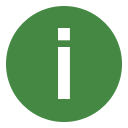
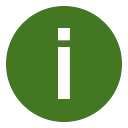
Requested new enum members for #1 . Hide not relevant fields in place editor and some fine color styling.

diff --git a/trips-client/src/app/components/places/place-details/place-details.component.ts b/trips-client/src/app/components/places/place-details/place-details.component.ts
@@ -26,7 +26,10 @@ export class PlaceDetailsComponent implements OnInit {
   mapRef: string;
 
   isEditButtonVisible: boolean;
+  isAccessibilityVisible: boolean;
   isNearestAccessibilityVisible: boolean;
+  isPopularityVisible: boolean;
+  isCapacityVisible: boolean;
   isGalleryVisible: boolean;
   isSelectTitlePicButtonVisible: boolean;
   isSelectTitlePicLabelVisible: boolean;
@@ -51,6 +54,7 @@ export class PlaceDetailsComponent implements OnInit {
   }
   set placeKind(value: PlaceKind) {
     this.place.kind = value;
+    this.refreshSelectorsVisible();
     this.initiatePartialSilentUpdate();
   }
 
@@ -62,7 +66,7 @@ export class PlaceDetailsComponent implements OnInit {
     if (this.place.nearestAccessibility > this.place.accessibility) {
       this.place.nearestAccessibility = this.place.accessibility;
     }
-    this.refreshNearestAccessibilityVisible();
+    this.refreshSelectorsVisible();
     this.initiatePartialSilentUpdate();
   }
 
@@ -159,7 +163,7 @@ export class PlaceDetailsComponent implements OnInit {
         this.isNotFound = true;
       }
       this.refreshTitlePicSrc();
-      this.refreshNearestAccessibilityVisible();
+      this.refreshSelectorsVisible();
       this.refreshGalleryVisible();
       this.updateMapRef();
       this.isOverallLoaderVisible = false;
@@ -366,8 +370,11 @@ export class PlaceDetailsComponent implements OnInit {
     }
   }
 
-  private refreshNearestAccessibilityVisible() {
-    this.isNearestAccessibilityVisible = (this.place) && (this.place.accessibility) && (this.place.accessibility >= PlaceAccessibility.TRACTORONLY);
+  private refreshSelectorsVisible() {
+    this.isAccessibilityVisible = this.place && this.placesService.isAccessibilityApplicable(this.place.kind);
+    this.isNearestAccessibilityVisible = this.isAccessibilityVisible && (this.place.accessibility) && (this.place.accessibility >= PlaceAccessibility.TRACTORONLY);
+    this.isPopularityVisible = this.place && this.placesService.isPopularityApplicable(this.place.kind);
+    this.isCapacityVisible = this.place && this.placesService.isCapacityApplicable(this.place.kind);
   }
 
   private refreshGalleryVisible() {

diff --git a/trips-client/src/app/components/common/selectors/place-kind-selector/place-kind-selector.component.ts b/trips-client/src/app/components/common/selectors/place-kind-selector/place-kind-selector.component.ts
@@ -1,6 +1,6 @@
 import { Component, OnInit, Input, Output, EventEmitter, ViewChild, OnChanges, SimpleChanges } from '@angular/core';
 import { PlaceKind } from 'src/app/models/place';
-import { ChoiceViewModel, SEL_GRAY, SEL_NOT_SELECTED, SEL_WHITE, SEL_BLUE, SEL_BLACK, SEL_ORANGE } from '../selector-engine/selector-engine.component';
+import { ChoiceViewModel, SEL_GRAY, SEL_NOT_SELECTED, SEL_WHITE, SEL_BLUE, SEL_BLACK, SEL_ORANGE, SEL_YELLOW, SEL_DARKGREEN } from '../selector-engine/selector-engine.component';
 
 let placeSelectorViewModels: ChoiceViewModel[] = [
   {
@@ -73,6 +73,30 @@ let placeSelectorViewModels: ChoiceViewModel[] = [
     colorWhenSelected: SEL_WHITE,
     colorWhenNotSelected: SEL_WHITE,
     backgroundColorWhenSelected: SEL_ORANGE,
+    backgroundColorWhenNotSelected: SEL_NOT_SELECTED
+  },
+  {
+    associatedValue: PlaceKind.TOURISTATTRACTION,
+    bigText: "Д",
+    smallText: "Достопримечательность",
+    showBigText: true,
+    showSmallText: true,
+    description: "",
+    colorWhenSelected: SEL_WHITE,
+    colorWhenNotSelected: SEL_WHITE,
+    backgroundColorWhenSelected: SEL_YELLOW,
+    backgroundColorWhenNotSelected: SEL_NOT_SELECTED
+  },
+  {
+    associatedValue: PlaceKind.ABANDONED,
+    bigText: "З",
+    smallText: "Заброшенное",
+    showBigText: true,
+    showSmallText: true,
+    description: "",
+    colorWhenSelected: SEL_WHITE,
+    colorWhenNotSelected: SEL_WHITE,
+    backgroundColorWhenSelected: SEL_DARKGREEN,
     backgroundColorWhenNotSelected: SEL_NOT_SELECTED
   }
 ];

diff --git a/trips-client/src/app/components/common/selectors/place-kind-multi-selector/place-kind-multi-selector.component.ts b/trips-client/src/app/components/common/selectors/place-kind-multi-selector/place-kind-multi-selector.component.ts
@@ -1,6 +1,6 @@
 import { Component, OnInit, Input, OnChanges, SimpleChanges, Output, EventEmitter } from '@angular/core';
 import { ChoiceViewModel } from '../multi-selector-engine/multi-selector-engine.component';
-import { SEL_WHITE, SEL_GRAY, SEL_NOT_SELECTED, SEL_BLUE, SEL_BLACK, SEL_ORANGE } from '../selector-engine/selector-engine.component';
+import { SEL_WHITE, SEL_GRAY, SEL_NOT_SELECTED, SEL_BLUE, SEL_BLACK, SEL_ORANGE, SEL_YELLOW, SEL_DARKGREEN } from '../selector-engine/selector-engine.component';
 import { PlaceKind } from 'src/app/models/place';
 
 let placeMultiSelectorViewModels: ChoiceViewModel[] = [
@@ -62,6 +62,26 @@ let placeMultiSelectorViewModels: ChoiceViewModel[] = [
     colorWhenSelected: SEL_WHITE,
     colorWhenNotSelected: SEL_WHITE,
     backgroundColorWhenSelected: SEL_ORANGE,
+    backgroundColorWhenNotSelected: SEL_NOT_SELECTED
+  },
+  {
+    associatedValue: PlaceKind.TOURISTATTRACTION,
+    bigText: "Д",
+    smallText: "Достопримечательность",
+    tooltip: "",
+    colorWhenSelected: SEL_WHITE,
+    colorWhenNotSelected: SEL_WHITE,
+    backgroundColorWhenSelected: SEL_YELLOW,
+    backgroundColorWhenNotSelected: SEL_NOT_SELECTED
+  },
+  {
+    associatedValue: PlaceKind.ABANDONED,
+    bigText: "З",
+    smallText: "Заброшенное",
+    tooltip: "",
+    colorWhenSelected: SEL_WHITE,
+    colorWhenNotSelected: SEL_WHITE,
+    backgroundColorWhenSelected: SEL_DARKGREEN,
     backgroundColorWhenNotSelected: SEL_NOT_SELECTED
   }
 ];

diff --git a/trips-client/src/app/components/places/place-details/place-details.component.html b/trips-client/src/app/components/places/place-details/place-details.component.html
@@ -79,7 +79,7 @@
                     <p *ngIf="!mapRef">{{place.location}}</p>
                 </div>
 
-                <div class="form-field">
+                <div *ngIf="isAccessibilityVisible" class="form-field">
                     <p>Доступность:</p>
                     <app-place-accessibility-selector [(value)]="placeAccessibility" [isEditable]="isEditMode"></app-place-accessibility-selector>
                 </div>
@@ -91,11 +91,11 @@
                         <span>"Ближайшая точка" по идее должна быть более доступна, чем само место</span>
                     </p>
                 </div>
-                <div class="form-field">
+                <div *ngIf="isPopularityVisible" class="form-field">
                     <p>Популярность:</p>
                     <app-place-popularity-selector [(value)]="placePopularity" [isEditable]="isEditMode"></app-place-popularity-selector>
                 </div>
-                <div class="form-field">
+                <div *ngIf="isCapacityVisible" class="form-field">
                     <p>Количество стоянок:</p>
                     <app-place-capacity-selector [(value)]="placeCapacity" [isEditable]="isEditMode"></app-place-capacity-selector>
                 </div>

diff --git a/trips-client/src/colors.less b/trips-client/src/colors.less
@@ -1,7 +1,7 @@
 /* 1. Colors that define current theme */
-@theme-color-dark: #484;
-@theme-color-light: #bc9;
-@theme-color-complementary:#848;
+@theme-color-dark: #472;
+@theme-color-light: #ab7;
+@theme-color-complementary:#816;
 
 /* 2. Colors that should not depend [much] on current theme */
 @color-danger:red;
@@ -11,12 +11,12 @@
 /* 3. Colors that depend on everything above */
 /* if something is theme-dark */
 @color-text-on-dark:white;
-@color-dark-hover:#cda;
+@color-dark-hover:#cd9;
 @color-text-on-dark-hover:black;
 @color-dark-pressed:white;
 @color-text-on-dark-pressed:black;
 
-@color-dark-text-hover:#8a7;
+@color-dark-text-hover:#895;
 
 /* if something is danger */
 @color-text-on-danger:white;

diff --git a/trips-client/src/app/components/common/selectors/place-capacity-selector/place-capacity-selector.component.ts b/trips-client/src/app/components/common/selectors/place-capacity-selector/place-capacity-selector.component.ts
@@ -16,6 +16,18 @@ let placeCapacityViewModels: ChoiceViewModel[] = [
     backgroundColorWhenNotSelected: SEL_NOT_SELECTED
   },
   {
+    associatedValue: PlaceCapacity.ZERO,
+    bigText: "0",
+    smallText: "",
+    showBigText: true,
+    showSmallText: false,
+    description: "Нет",
+    colorWhenSelected: SEL_WHITE,
+    colorWhenNotSelected: SEL_WHITE,
+    backgroundColorWhenSelected: SEL_RED,
+    backgroundColorWhenNotSelected: SEL_NOT_SELECTED
+  },
+  {
     associatedValue: PlaceCapacity.SINGLE,
     bigText: "1",
     smallText: "",

diff --git a/trips-client/src/app/services/places.service.ts b/trips-client/src/app/services/places.service.ts
@@ -188,4 +188,16 @@ export class PlacesService {
 
     return result;
   }
+
+  isAccessibilityApplicable(placeKind: PlaceKind): boolean {
+    return placeKind != PlaceKind.TOWN;
+  }
+
+  isPopularityApplicable(placeKind: PlaceKind): boolean {
+    return placeKind != PlaceKind.TOWN;
+  }
+
+  isCapacityApplicable(placeKind: PlaceKind): boolean {
+    return (placeKind == null) || (placeKind == PlaceKind.LAKE) || (placeKind == PlaceKind.DAM) || (placeKind == PlaceKind.RIVER);
+  }
 }

diff --git a/trips-client/src/app/models/place.ts b/trips-client/src/app/models/place.ts
@@ -7,7 +7,9 @@ export enum PlaceKind {
     DAM = 2,
     RIVER = 3,
     TOWN = 4,
-    RUINS = 5
+    RUINS = 5,
+    TOURISTATTRACTION = 6,
+    ABANDONED = 7
 }
 
 export enum PlaceAccessibility {
@@ -26,6 +28,7 @@ export enum PlacePopularity {
 }
 
 export enum PlaceCapacity {
+    ZERO = 0,
     SINGLE = 1,
     SEVERAL = 2,
     NUMEROUS = 3

diff --git a/trips-client/src/app/components/common/selectors/selector-engine/selector-engine.component.ts b/trips-client/src/app/components/common/selectors/selector-engine/selector-engine.component.ts
@@ -18,7 +18,7 @@ export class ChoiceViewModel {
 export const SEL_NOT_SELECTED = "#bbb";
 export const SEL_GRAY = "#888";
 export const SEL_BLUE = "#06f";
-export const SEL_DARKGREEN = "#082";
+export const SEL_DARKGREEN = "#072";
 export const SEL_LIGHTGREEN = "#2d0";
 export const SEL_YELLOW = "#fd0";
 export const SEL_ORANGE = "#f80";

diff --git a/trips-client/src/app/components/common/selectors/selector-engine/selector-engine.component.less b/trips-client/src/app/components/common/selectors/selector-engine/selector-engine.component.less
@@ -28,7 +28,7 @@ p.selector-description-inline {
     position:relative;
     float:left;
     top:8px;
-    margin:2px;
+    margin:2px 2px 2px 5px;
 }
 
 #underTextHelper {

diff --git a/TripsServer/Trips/Entities/PlaceKind.cs b/TripsServer/Trips/Entities/PlaceKind.cs
@@ -11,6 +11,8 @@ namespace Trips.Entities
         Dam = 2,
         River = 3,
         Town = 4,
-        Ruins = 5
+        Ruins = 5,
+        TouristAttraction = 6,
+        Abandoned = 7
     }
 }

diff --git a/TripsServer/Trips/Entities/PlaceCapacity.cs b/TripsServer/Trips/Entities/PlaceCapacity.cs
@@ -7,6 +7,7 @@ namespace Trips.Entities
 {
     public enum PlaceCapacity
     {
+        Zero = 0,
         Single = 1,
         Several = 2,
         Numerous = 3
